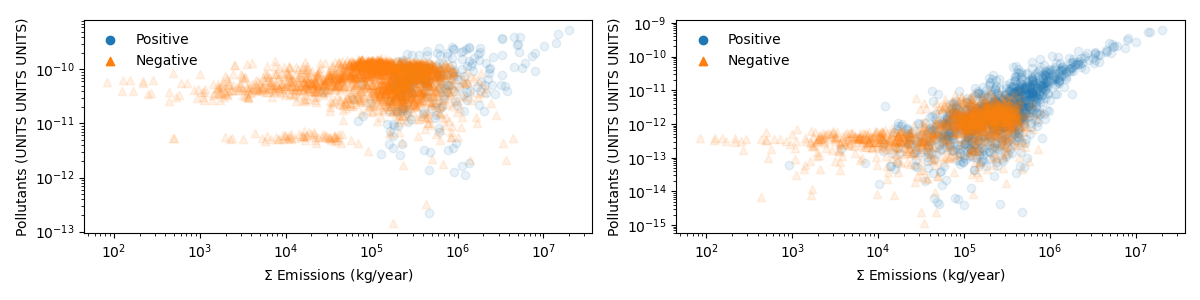
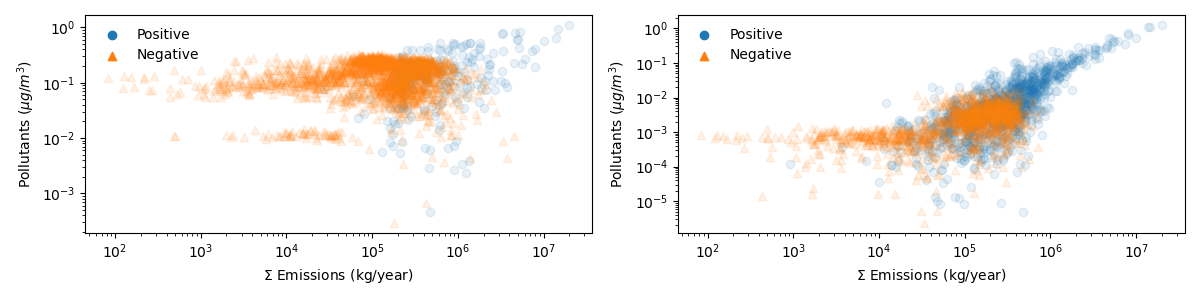
Include plots and fix formatting

diff --git a/division_processing/sensitivity_log_europe.py b/division_processing/sensitivity_log_europe.py
@@ -5,33 +5,67 @@ import cartopy.feature as cfeature
 import xarray as xr
 import os
 import numpy as np
-from utils import *
+from utils import adder, differencer
 import time
-from cartopy.io.shapereader import natural_earth
 import shapely.geometry as sgeom
 import cartopy.io.shapereader as shpreader
 from shapely.prepared import prep
 from matplotlib.patches import Rectangle
 
 # Load the 'admin_0_countries' shapefile (countries of the world)
-shpfilename = shpreader.natural_earth(resolution='10m', category='cultural', name='admin_0_countries')
+shpfilename = shpreader.natural_earth(
+    resolution="10m", category="cultural", name="admin_0_countries"
+)
 reader = shpreader.Reader(shpfilename)
 records = reader.records()
 
 IQR = False
 europe_countries = [
-    "Austria", "Belgium", "Bosnia and Herzegovina", "Bulgaria", "Croatia", "Czech Republic",
-    "Denmark", "Estonia", "Finland", "France", "Germany", "Greece", "Hungary",
-    "Iceland", "Ireland", "Italy", "Latvia", "Lithuania", "Luxembourg", "Malta",
-    "Moldova", "Netherlands", "North Macedonia", "Norway", "Poland", "Portugal",
-    "Romania", "Serbia", "Slovakia", "Slovenia", "Spain", "Sweden", "Switzerland",
-    "Ukraine", "United Kingdom", "Albania", "Montenegro", "Kosovo", "Belarus"
+    "Austria",
+    "Belgium",
+    "Bosnia and Herzegovina",
+    "Bulgaria",
+    "Croatia",
+    "Czech Republic",
+    "Denmark",
+    "Estonia",
+    "Finland",
+    "France",
+    "Germany",
+    "Greece",
+    "Hungary",
+    "Iceland",
+    "Ireland",
+    "Italy",
+    "Latvia",
+    "Lithuania",
+    "Luxembourg",
+    "Malta",
+    "Moldova",
+    "Netherlands",
+    "North Macedonia",
+    "Norway",
+    "Poland",
+    "Portugal",
+    "Romania",
+    "Serbia",
+    "Slovakia",
+    "Slovenia",
+    "Spain",
+    "Sweden",
+    "Switzerland",
+    "Ukraine",
+    "United Kingdom",
+    "Albania",
+    "Montenegro",
+    "Kosovo",
+    "Belarus",
 ]
 
 # Collect geometries for only the European countries
 polygons = []
 for record in records:
-    if record.attributes['NAME_LONG'] in europe_countries:
+    if record.attributes["NAME_LONG"] in europe_countries:
         geom = record.geometry
         if isinstance(geom, sgeom.MultiPolygon):
             polygons.extend(geom.geoms)
@@ -43,96 +77,124 @@ europe_geom = sgeom.MultiPolygon(polygons)
 prep_europe = prep(europe_geom)
 
 # Rough bounding box for Europe
-EUROPE_BOUNDS = {
-    'lon_min': -25,
-    'lon_max': 45,
-    'lat_min': 30,
-    'lat_max': 75
-}
+EUROPE_BOUNDS = {"lon_min": -25, "lon_max": 40, "lat_min": 35, "lat_max": 68}
+
 
 # ----------------------------------------------------
 # Function to mask ocean values from a DataArray
 # ----------------------------------------------------
 def mask_ocean(dataarray):
-    lons, lats = np.meshgrid(dataarray['lon'], dataarray['lat'])
+    lons, lats = np.meshgrid(dataarray["lon"], dataarray["lat"])
     points = np.vstack([lons.ravel(), lats.ravel()]).T
     mask = np.array([prep_europe.contains(sgeom.Point(x, y)) for x, y in points])
     mask = mask.reshape(lats.shape)
     return dataarray.where(mask)
 
+
 # ----------------------------------------------------
 # Plot only over Europe
 # ----------------------------------------------------
 start = time.time()
-months = ['JAN', 'JUL']
+months = ["JAN", "JUL"]
 
 types = {
-    'Aerosol': {
-        'PM25': ['nvPM'],
-        'AerMassNIT': ['NO2'],
-        'AerMassNH4': ['NO2'],
-        'AerMassPOA': ['nvPM', 'HC'],
-        'AerMassBC': ['nvPM']
+    "Aerosol": {
+        "PM25": ["nvPM"],
+        # 'AerMassNIT': ['NO2'],
+        # 'AerMassNH4': ['NO2'],
+        # 'AerMassPOA': ['nvPM', 'HC'],
+        # 'AerMassBC': ['nvPM']
     },
-    'O3': {
-        'SpeciesConc_O3': ['NO2', 'HC', 'CO']
-    },
-    'NO2': {
-        'SpeciesConc_NO2': ['NO2']
-    }
+    "O3": {"SpeciesConc_O3": ["NO2", "HC", "CO"]},
+    "NO2": {"SpeciesConc_NO2": ["NO2"]},
 }
 
-emissions = xr.open_dataset(os.path.join(os.path.dirname(__file__), '..', 'raw_data', 'emissions', 'AvEmMasses.nc4'))
 
-for type_, vars in types.items():
+units = [1e-3, 44.6 * 48 * 1e-3, 44.6 * 46.01 * 1e-3]
+
+emissions = xr.open_dataset(
+    os.path.join(
+        os.path.dirname(__file__), "..", "raw_data", "emissions", "AvEmMasses.nc4"
+    )
+)
+area = xr.open_dataset(
+    os.path.join(
+        os.path.dirname(__file__), "..", "raw_data", "model", "daAREA_05x0625_EU.nc4"
+    )
+)
+
+for i, values in enumerate(types.items()):
+    type_, vars = values
+
     for var, emittants in vars.items():
-        
         measures = []
-        
-        for month in months:
-            pollutant = differencer(type_, month, var)
-            sum_emittants = adder(emissions, emittants)
 
-            pollutant_top20 = np.nanpercentile(pollutant.values, 100*0)
-            select_pollutant = pollutant.where(pollutant.values >= pollutant_top20, np.nan)
+        for month in months:
+            pollutant = differencer(type_, month, var) * units[i] * area["AREA"] * 128
+            sum_emittants = adder(emissions, emittants)
+            pollutant_top20 = np.nanpercentile(pollutant.values, 0)
+            select_pollutant = pollutant.where(
+                pollutant.values >= pollutant_top20, np.nan
+            )
 
             measure = select_pollutant / sum_emittants
-            
+
             measures.append(measure)
-            # 48.125 in lon cutoff
-            # 68.5 in lat is cutoff
-        
-        fig, ax = plt.subplots(1, 2, figsize=[16, 6], subplot_kw={"projection": ccrs.PlateCarree()})
-        plt.tight_layout()
-        
+
+        fig, ax = plt.subplots(
+            1,
+            2,
+            figsize=[8, 3],
+            subplot_kw={"projection": ccrs.PlateCarree()},
+            constrained_layout=True,
+        )
+
         for i, month in enumerate(months):
-            ax[i].add_feature(cfeature.BORDERS.with_scale('10m'), linewidth=0.5, edgecolor='darkgrey')
-            ax[i].coastlines(resolution='10m', linewidth=0.5, color='black')
-            
+            ax[i].add_feature(
+                cfeature.BORDERS.with_scale("10m"), linewidth=0.5, edgecolor="darkgrey"
+            )
+            ax[i].coastlines(resolution="10m", linewidth=0.5, color="black")
+
             # Set extent to Europe
-            ax[i].set_extent([EUROPE_BOUNDS['lon_min'], EUROPE_BOUNDS['lon_max'],
-                              EUROPE_BOUNDS['lat_min'], EUROPE_BOUNDS['lat_max']], crs=ccrs.PlateCarree())
-            
+            ax[i].set_extent(
+                [
+                    EUROPE_BOUNDS["lon_min"],
+                    EUROPE_BOUNDS["lon_max"],
+                    EUROPE_BOUNDS["lat_min"],
+                    EUROPE_BOUNDS["lat_max"],
+                ],
+                crs=ccrs.PlateCarree(),
+            )
+
             # Add bounding box on map
             europe_rect = Rectangle(
-                (EUROPE_BOUNDS['lon_min'], EUROPE_BOUNDS['lat_min']),
-                EUROPE_BOUNDS['lon_max'] - EUROPE_BOUNDS['lon_min'],
-                EUROPE_BOUNDS['lat_max'] - EUROPE_BOUNDS['lat_min'],
-                linewidth=1.5, edgecolor='blue', facecolor='none', linestyle='--', transform=ccrs.PlateCarree()
+                (EUROPE_BOUNDS["lon_min"], EUROPE_BOUNDS["lat_min"]),
+                EUROPE_BOUNDS["lon_max"] - EUROPE_BOUNDS["lon_min"],
+                EUROPE_BOUNDS["lat_max"] - EUROPE_BOUNDS["lat_min"],
+                linewidth=1.5,
+                edgecolor="blue",
+                facecolor="none",
+                linestyle="--",
+                transform=ccrs.PlateCarree(),
             )
             ax[i].add_patch(europe_rect)
 
             # Optional: Add gridlines with labels
-            gl = ax[i].gridlines(draw_labels=True, linewidth=0.3, color='gray', alpha=0.5, linestyle='--')
+            gl = ax[i].gridlines(
+                draw_labels=True, linewidth=0.3, color="gray", alpha=0.5, linestyle="--"
+            )
             gl.top_labels = False
             gl.right_labels = False
-            gl.xlabel_style = {'size': 9}
-            gl.ylabel_style = {'size': 9}
+            gl.xlabel_style = {"size": 9}
+            gl.ylabel_style = {"size": 9}
 
             masked_measure = mask_ocean(measures[i])
             negative_measures = abs(masked_measure.where(masked_measure.values < 0))
             masked_measure_europe = masked_measure.where(masked_measure.values > 0)
-            
+
+            # print(min(negative_measures.lat))
+            # print(min(masked_measure_europe.lat))
+
             if IQR:
                 median = np.nanmedian(masked_measure_europe.values)
                 q1 = np.nanpercentile(masked_measure_europe.values, 25)
@@ -141,36 +203,63 @@ for type_, vars in types.items():
                 lower_bound = q1 - 1.5 * iqr
                 upper_bound = q3 + 1.5 * iqr
                 masked_measure_europe = masked_measure_europe.where(
-                    (masked_measure_europe >= lower_bound) & 
-                    (masked_measure_europe <= upper_bound), np.nan
+                    (masked_measure_europe >= lower_bound)
+                    & (masked_measure_europe <= upper_bound),
+                    np.nan,
                 )
 
             vmin = np.nanmin(masked_measure_europe.values)
             vmax = np.nanmax(masked_measure_europe.values)
             norm1 = matplotlib.colors.LogNorm(vmin=vmin, vmax=vmax)
-            
-            fig.set_size_inches(16, 9)
+
+            # fig.set_size_inches(12, 6)
             if np.any(~np.isnan(negative_measures.values)):
-                norm2 = matplotlib.colors.LogNorm(vmin=np.nanmin(negative_measures.values), vmax=np.nanmax(negative_measures.values))
+                norm2 = matplotlib.colors.LogNorm(
+                    vmin=np.nanmin(negative_measures.values),
+                    vmax=np.nanmax(negative_measures.values),
+                )
                 negative_measures.plot(
                     ax=ax[i],
-                    cmap='BuGn',
+                    cmap="BuGn",
                     transform=ccrs.PlateCarree(),
                     norm=norm2,
-                    cbar_kwargs={"label": "Negative values (log scale)", "aspect": 40, "location": "bottom", "pad": 0.05}
+                    cbar_kwargs={
+                        "label": "Negative values (log scale)",
+                        "aspect": 40,
+                        "location": "bottom",
+                        "pad": 0.05,
+                        "shrink": 0.5,
+                    },
                 )
-            
+
             masked_measure_europe.plot(
                 ax=ax[i],
                 transform=ccrs.PlateCarree(),
                 norm=norm1,
-                cmap='YlOrRd',
-                cbar_kwargs={"label": "Absolute value (log scale)", "aspect": 40, "location": "bottom", "pad": 0.05}
+                cmap="YlOrRd",
+                cbar_kwargs={
+                    "label": "Absolute value (log scale)",
+                    "aspect": 40,
+                    "location": "bottom",
+                    "pad": 0.05,
+                    "shrink": 0.5,
+                },
             )
-            
-            ax[i].set_title(f"{var}, monthly average {month}", fontsize=14)
 
-        plt.savefig(os.path.join(os.path.dirname(__file__), '..', 'division_processing', 'division_figures', f'{type_}_{var}_timeaveraged_logscale.png'))
+            # ax[i].set_title(f"{var}, monthly average {month}", fontsize=14)
+            # plt.tight_layout()
+            ax[i].set_title("")
+
+        plt.savefig(
+            os.path.join(
+                os.path.dirname(__file__),
+                "..",
+                "division_processing",
+                "division_figures",
+                "analysis",
+                f"{type_}_{var}_timeaveraged_logscale.png",
+            )
+        )
 
 end = time.time()
 plt.show()

diff --git a/division_processing/scatter_log_europe.py b/division_processing/scatter_log_europe.py
@@ -58,9 +58,12 @@ types = {
     }
 }
 
+multipliers = [1, 44.6*48*1e6, 44.6*46.01*1e6]
+
 emissions = xr.open_dataset(os.path.join(os.path.dirname(__file__), '..', 'raw_data', 'emissions', 'AvEmMasses.nc4'))
 
-for type_, vars in types.items():
+for i, value in enumerate(types.items()):
+    type_, vars = value
     for var, emittants in vars.items():
         fig, ax = plt.subplots(1, 2, figsize=[12, 3])
         plt.tight_layout()
@@ -68,7 +71,7 @@ for type_, vars in types.items():
         emittants_lst = []
         
         for month in months:
-            pollutant = differencer(type_, month, var) # 74 by 122
+            pollutant = differencer(type_, month, var) * multipliers[i] # 74 by 122
             sum_emittant = adder(emissions, emittants) # 75 by 123
             
             sum_emittant = (sum_emittant.drop_isel({'lat':-1, 'lon': -1}))
@@ -98,7 +101,7 @@ for type_, vars in types.items():
             ax[i].scatter(negative_emittants, negative_pollutants, color='tab:orange', alpha=0.1, label= "Negative", marker="^")
             # ax[i].set_title(f"{var}, monthly average {month}", fontsize=14)
             ax[i].set_xlabel(r'$\Sigma$ Emissions (kg/year)')
-            ax[i].set_ylabel('Pollutants (UNITS UNITS UNITS)')
+            ax[i].set_ylabel(r'Pollutants ($\mu g /  m^3$)')
             ax[i].set_xscale('log')
             ax[i].set_yscale('log')
             legend = ax[i].legend(frameon=False)
@@ -109,6 +112,6 @@ for type_, vars in types.items():
         plt.savefig(os.path.join(os.path.dirname(__file__), '..', 'division_processing', 'scatter_figures_log', 'analysis',f'{type_}_{var}_timeaveraged_Europe_scatter_log.png'))
 
 end = time.time()
-plt.show()
+# plt.show()
 
 print(f"Process run in {end - start} s")

diff --git a/division_processing/utils.py b/division_processing/utils.py
@@ -10,7 +10,6 @@ def differencer(type, month, var):
     daSurfoff = daoff.isel(lev=0).mean(dim = "time")
     daSurfon = daon.isel(lev=0).mean(dim = "time")
     daDiff = daSurfon - daSurfoff
-
     return daDiff
 
 def adder(dataset, emittants):
